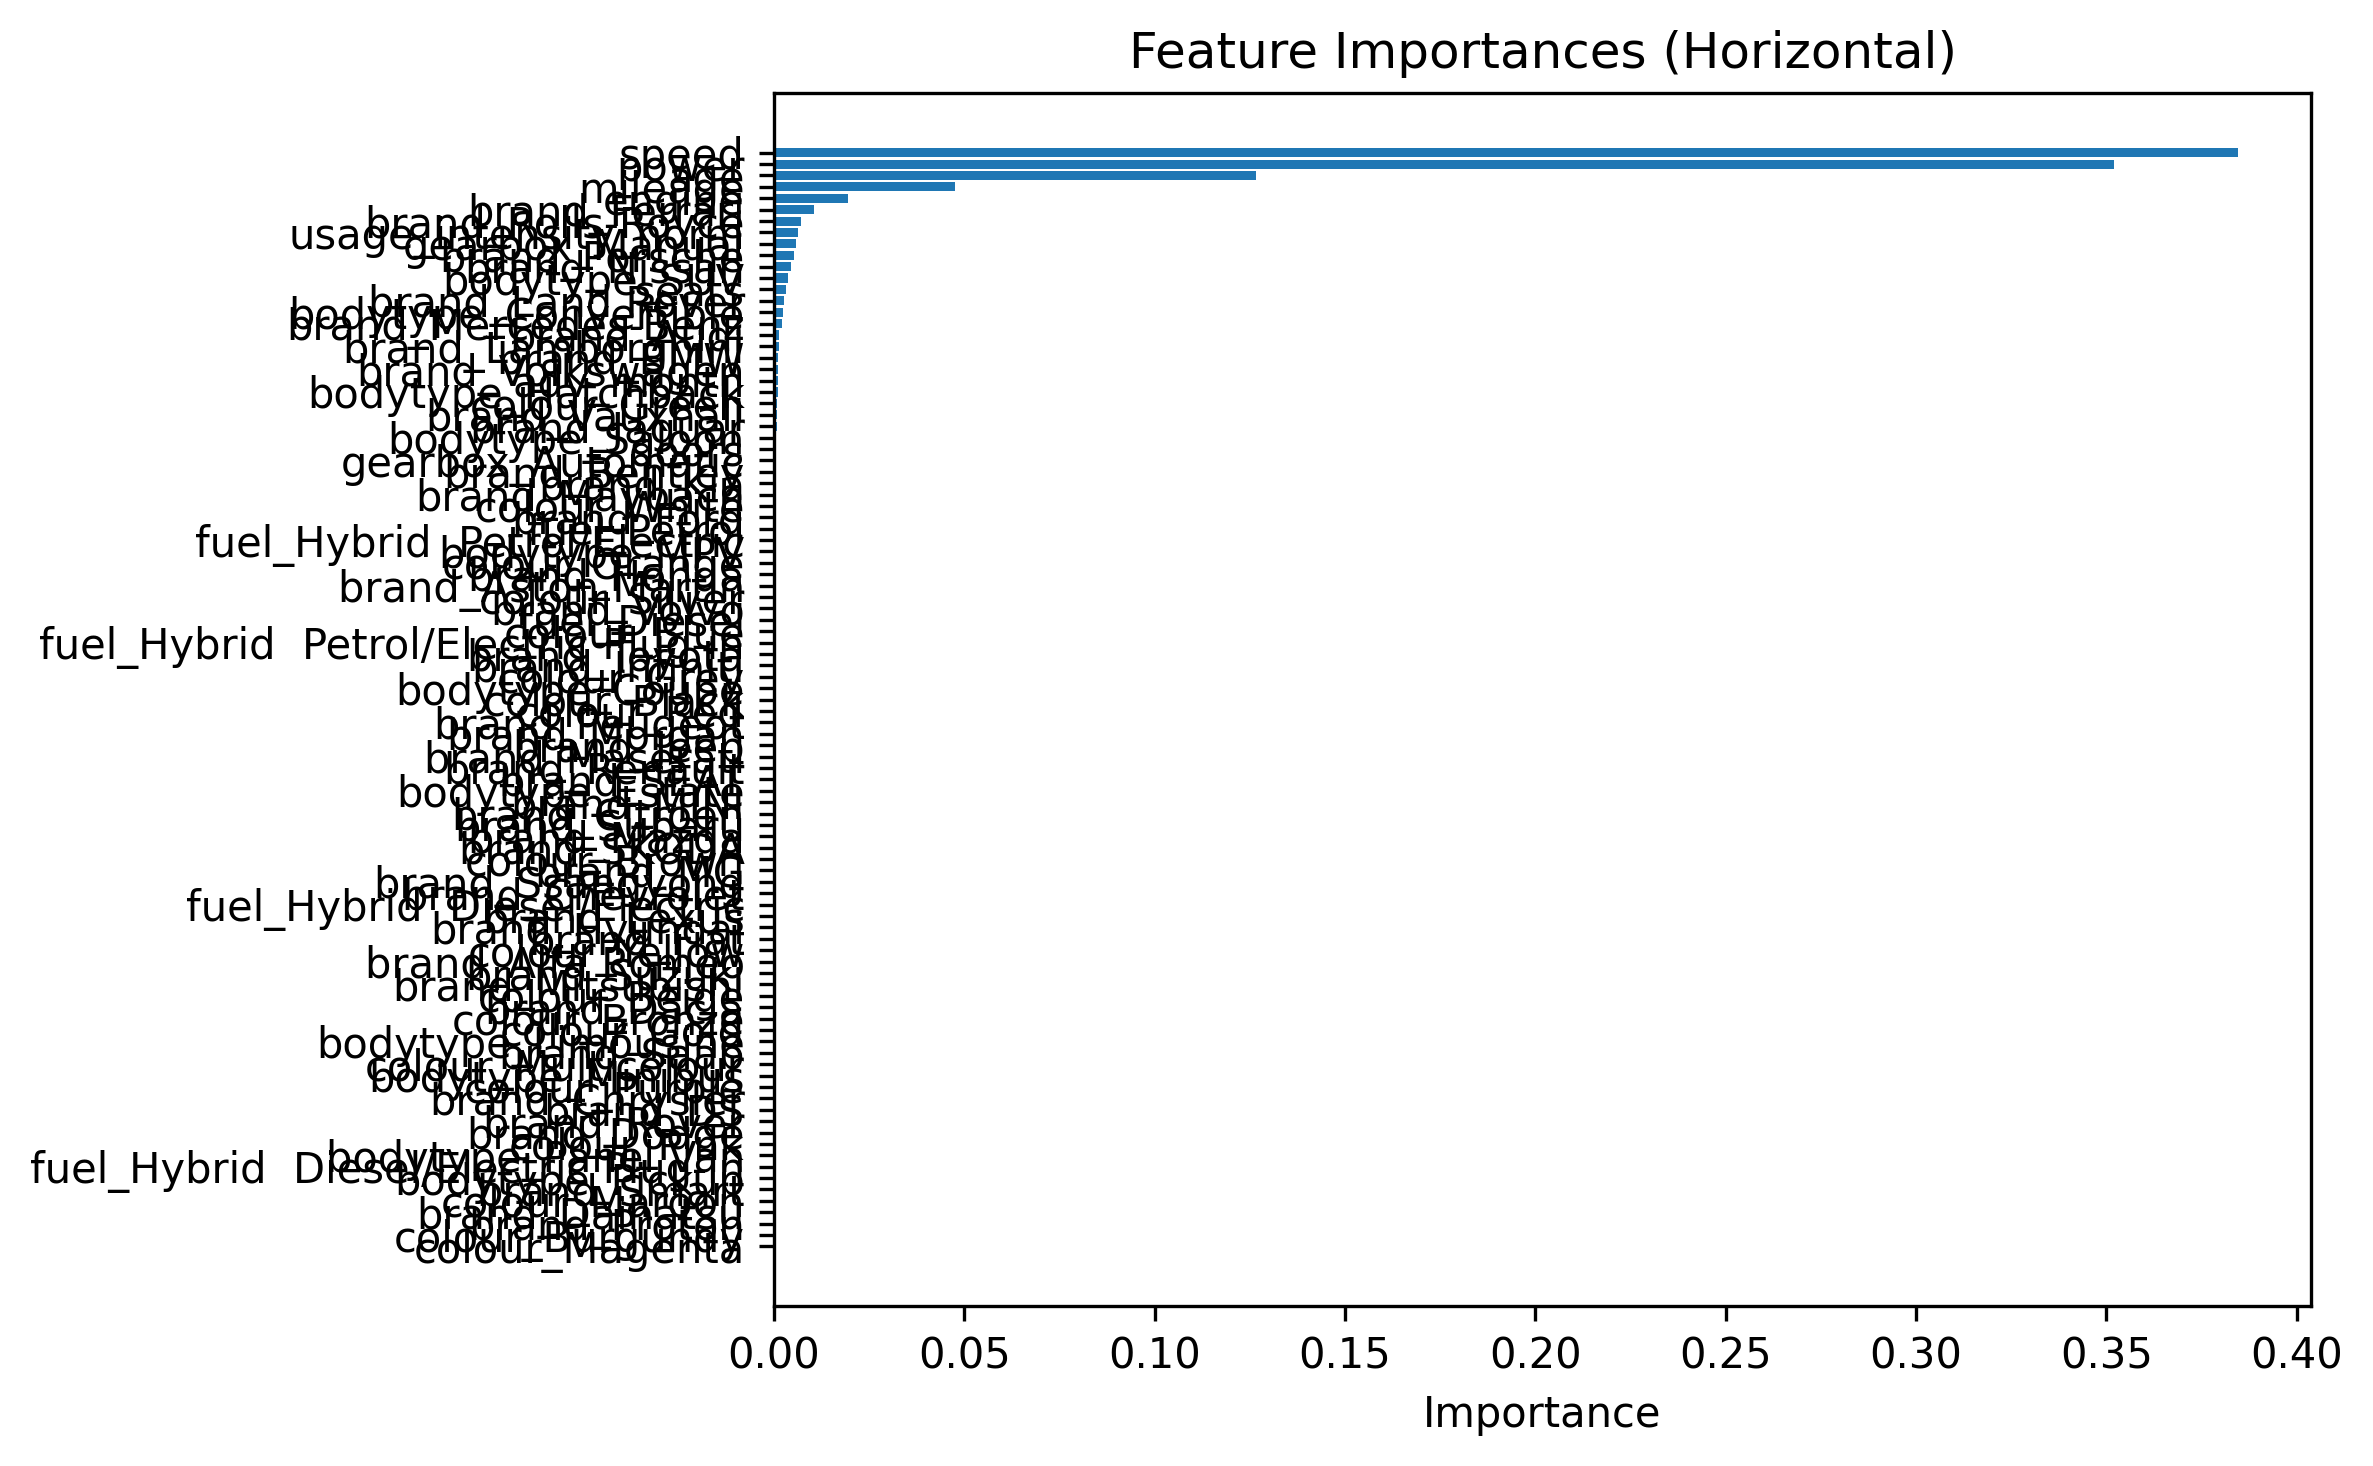
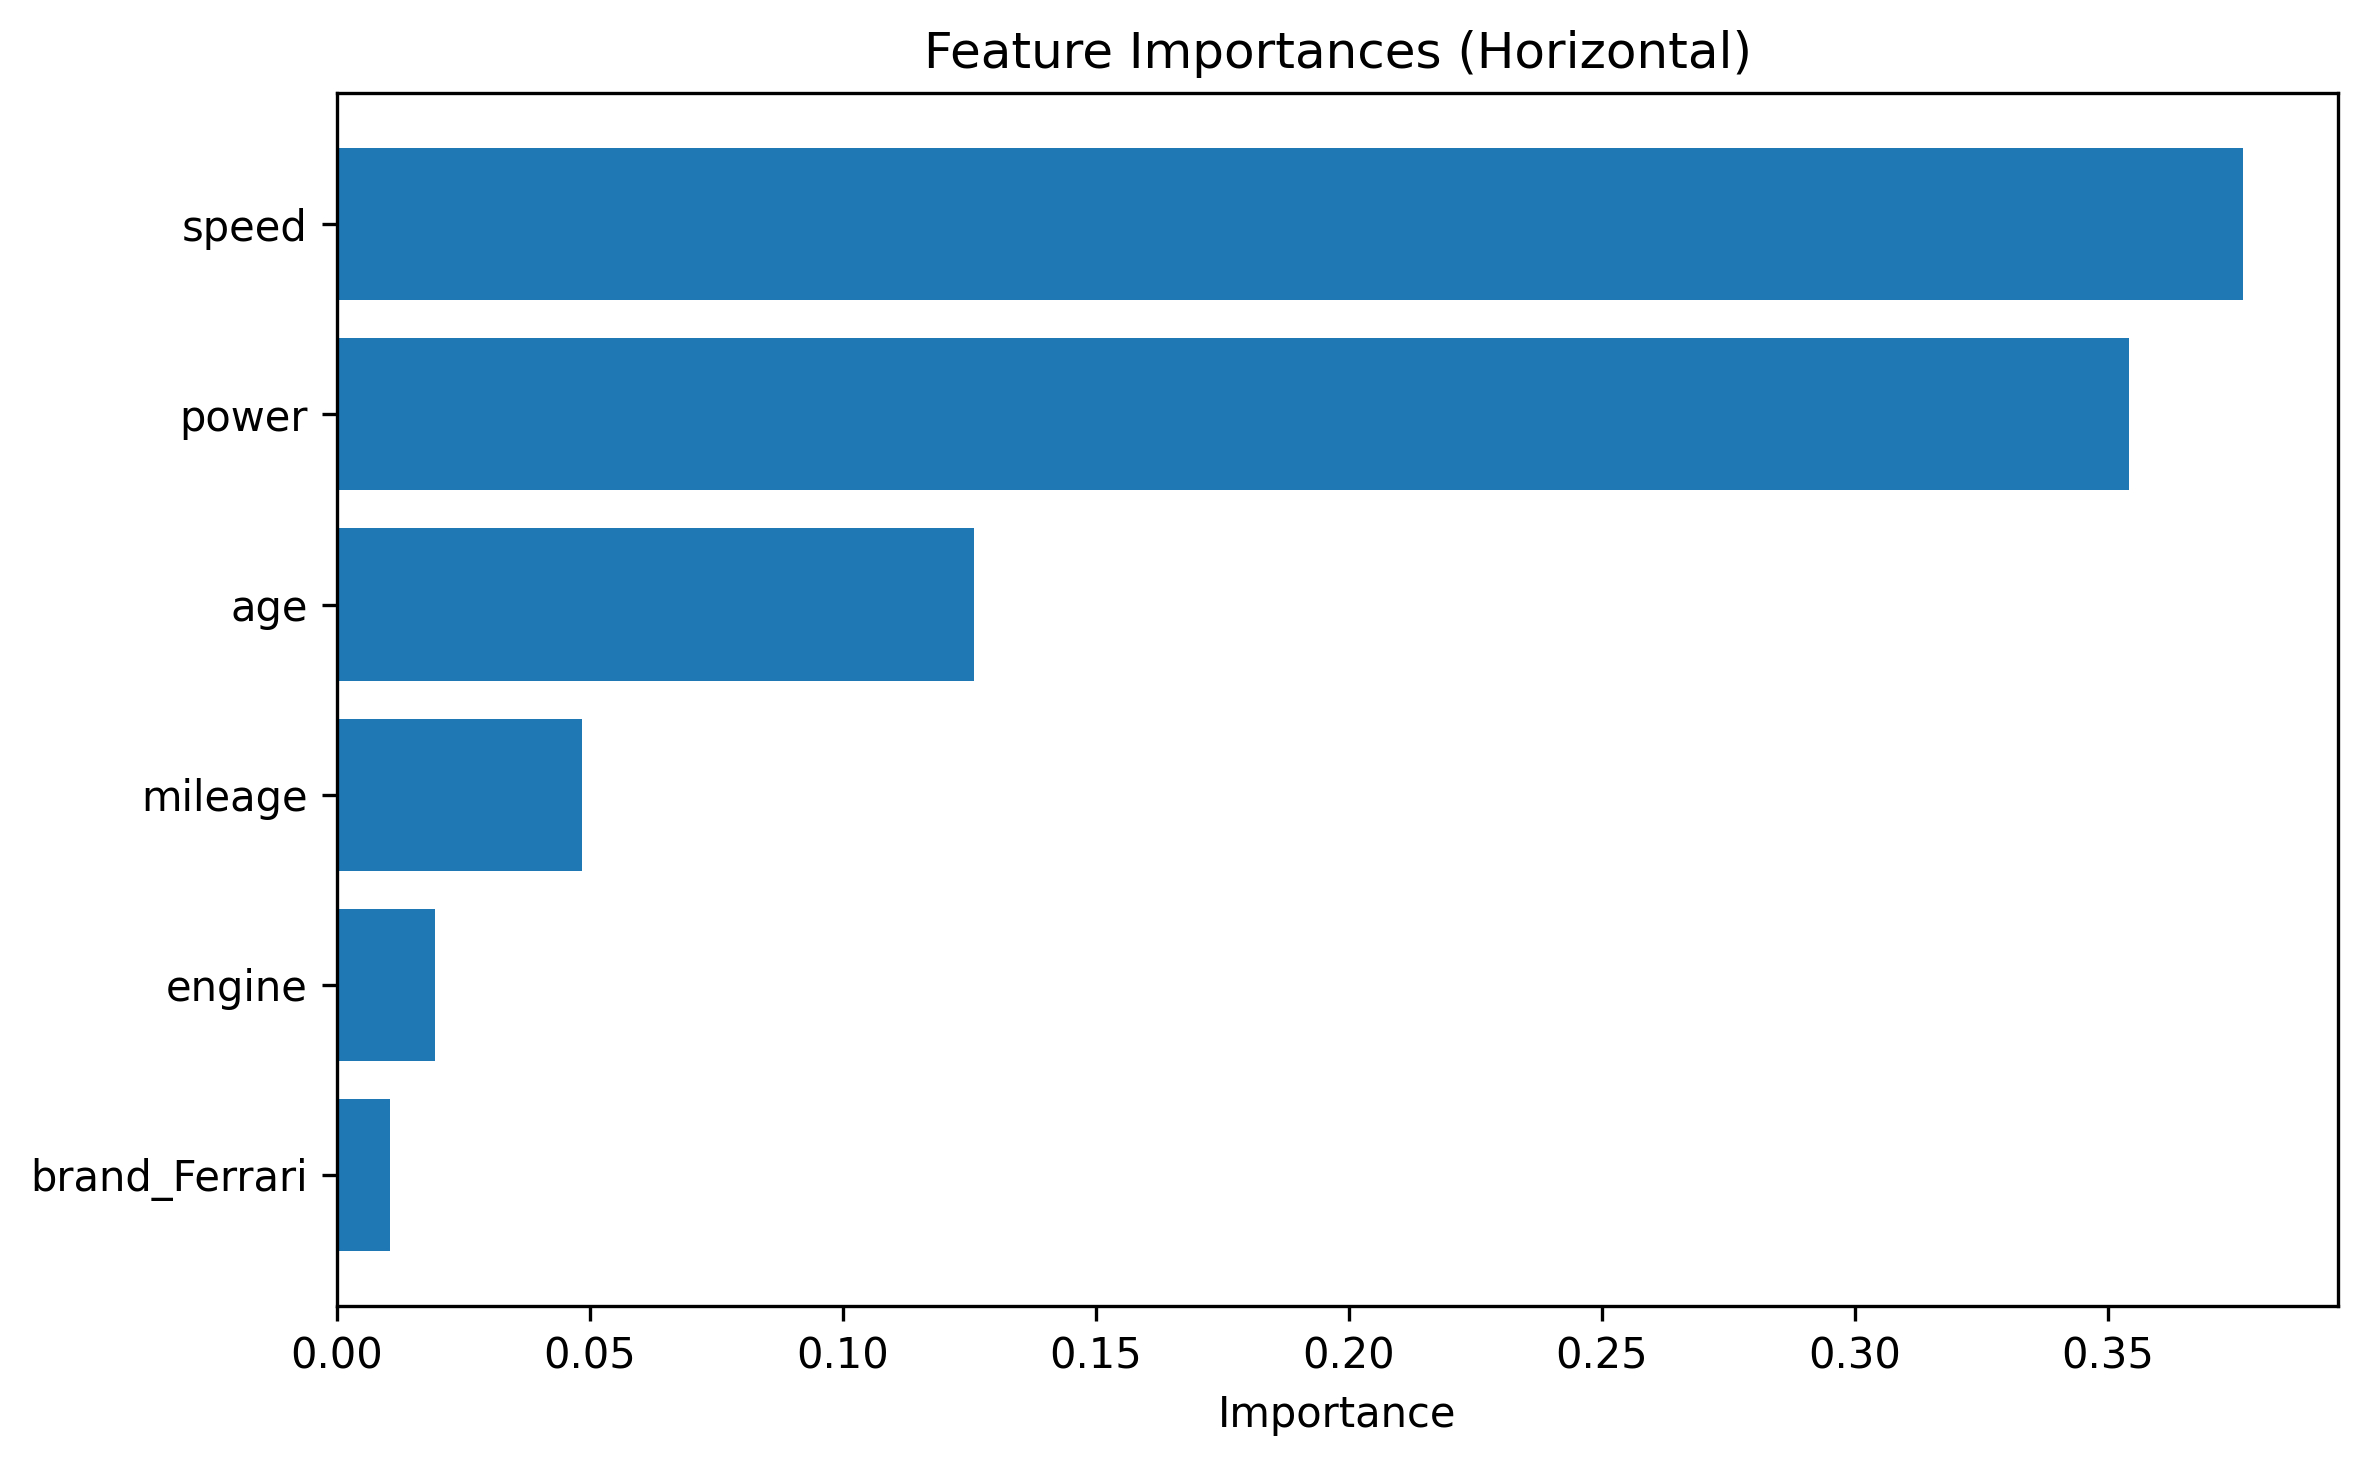
feat: modularise box-plot code and add functionality to choose training model
Add:
- plot_price_box_plots() function to show price distribution
- match structure in run_pipeline to select different models based on the parameter entered
- adjustments to decision tree and feature importance plots

diff --git a/src/analysis_ad_decision_tree_regressor.py b/src/analysis_ad_decision_tree_regressor.py
@@ -5,12 +5,12 @@ import matplotlib.pyplot as plt
 import seaborn as sns
 
 from sklearn.model_selection import train_test_split, KFold, cross_val_score, GridSearchCV
-from sklearn.tree import DecisionTreeClassifier, plot_tree, DecisionTreeRegressor
+from sklearn.tree import plot_tree, DecisionTreeRegressor
 from sklearn.metrics import mean_absolute_error, mean_squared_error, r2_score
 from sklearn.preprocessing import OneHotEncoder
 from sklearn.compose import ColumnTransformer
 from sklearn.pipeline import Pipeline
-
+from sklearn.ensemble import RandomForestRegressor, GradientBoostingRegressor
 
 def get_safe_data():
     # Access processed data that has not been flagged and is within the specified price
@@ -64,20 +64,34 @@ def show_feature_names(preprocess: ColumnTransformer, cat_features:list, num_fea
     
     return all_features
 
-def run_pipeline(preprocess: ColumnTransformer, X_train, y_train):
+def run_pipeline(preprocess: ColumnTransformer, X_train, y_train, model_name:str):
     # Full pipeline - preprocessing + model
-    model = Pipeline(steps=[
-        ('preprocess', preprocess),
-        #('rf', RandomForestRegressor( n_estimators=10, random_state=0, max_depth=None ))
-        ('tree', DecisionTreeRegressor(
-            max_depth=20, 
-            max_features=None, 
-            min_samples_leaf=1, 
-            min_samples_split=10, 
-            random_state=10
-            )
-        )
-    ])
+
+    match model_name:
+        case "tree":
+            model = Pipeline(steps=[
+                ('preprocess', preprocess),
+                ('tree', DecisionTreeRegressor(
+                    # max_depth=20, 
+                    # max_features=None, 
+                    # min_samples_leaf=1, 
+                    # min_samples_split=10, 
+                    random_state=10
+                    )
+                )
+            ])
+        case "rf":
+            model = Pipeline(steps=[
+                ('preprocess', preprocess),
+                ('rf', RandomForestRegressor(random_state=10))
+            ])
+
+        case "gb":
+            model = Pipeline(steps=[
+                ('preprocess', preprocess),
+                ('gb', GradientBoostingRegressor(random_state=10))
+            ])
+
 
     model.fit(X_train, y_train)
 
@@ -101,13 +115,14 @@ def plot_decision_tree(model, all_features):
     tree_model = model.named_steps['tree']
 
     # Format and plot tree
-    plt.figure(figsize=(10,5), dpi=600)
+    plt.figure(figsize=(15,5), dpi=600)
     plot_tree(
         tree_model, 
         feature_names = all_features,
         filled=True,
-        max_depth = 3)
-
+        max_depth = 3,
+        fontsize=6)
+    
     plt.savefig("figures/decision_tree_regressor.png", dpi=600, bbox_inches='tight')
     #plt.show()
 
@@ -145,7 +160,7 @@ def plot_feature_importance(all_features:list, model):
     print(feat_imp)
 
     # Show feature importance graphically
-    feat_imp_nonzero = feat_imp[feat_imp["Importance"] > 0] # only include features that have some importance
+    feat_imp_nonzero = feat_imp[feat_imp["Importance"] > 0.01] # only include features that have some importance
     plt.figure(figsize=(8,5))
     plt.barh(feat_imp_nonzero["Feature"], feat_imp_nonzero["Importance"])
 
@@ -179,7 +194,7 @@ def plot_error_graphs(errors, relative_error):
     plt.savefig("figures/relative_error.png", dpi=300, bbox_inches='tight')
     #plt.show()
 
-def plot_model_analysis(y_test, errors, relative_error):
+def plot_model_analysis(X_test, y_test, preds, errors, relative_error):
     
     # Check if model performs worse on high or low priced cars
     bins = [0, 5000, 10000, 20000, 40000, 60000, 70000, 80000, 90000, 100000, 200000, 300000, 400000, 500000, 600000, 700000, 800000, 900000, 1000000, 2000000]
@@ -239,8 +254,29 @@ def plot_model_analysis(y_test, errors, relative_error):
     plt.savefig("figures/brand_level_prediction_bias.png", dpi=300, bbox_inches='tight')
     #plt.show()
 
+def plot_price_box_plots(df:pd.DataFrame):
 
-def tune_hyperparams(model, model_type:str):
+    print(df['price'].describe(percentiles=[0.5, 0.9, 0.95, 0.99, 0.999]))
+
+    sns.boxplot(x=df['price'])
+    plt.title("Boxplot of Car Prices") 
+    plt.xlabel("Price (£)") 
+    plt.show()
+
+    fig, axes = plt.subplots(1, 3, figsize=(14, 4))
+
+    sns.boxplot(x=df['price'], ax=axes[0])
+    axes[0].set_title("Full Price Range")
+
+    sns.boxplot(x=df[df['price'] < 100000]['price'], ax=axes[1])
+    axes[1].set_title("Zoomed (< £100k)")
+
+    axes[2].set_title("Zoomed (< 40k)")
+    sns.boxplot(x=df[df['price'] < 40000]['price'], ax=axes[2])
+
+    plt.show()
+
+def tune_hyperparams(model, model_type:str, X_train, y_train, X_test, y_test):
     # Hyper parameter tuning based on model
     
     match(model_type):
@@ -285,29 +321,6 @@ def tune_hyperparams(model, model_type:str):
 if __name__ == "__main__":
 
     df = get_safe_data()
-    #print(df['price'].describe(percentiles=[0.5, 0.9, 0.95, 0.99, 0.999]))
-
-    # sns.boxplot(x=df['price'])
-    # plt.title("Boxplot of Car Prices") 
-    # plt.xlabel("Price (£)") 
-    # plt.show()
-
-    # fig, axes = plt.subplots(1, 3, figsize=(14, 4))
-
-    # sns.boxplot(x=df['price'], ax=axes[0])
-    # axes[0].set_title("Full Price Range")
-
-    # sns.boxplot(x=df[df['price'] < 100000]['price'], ax=axes[1])
-    # axes[1].set_title("Zoomed (< £100k)")
-
-    # axes[2].set_title("Zoomed (< 40k)")
-    # sns.boxplot(x=df[df['price'] < 40000]['price'], ax=axes[2])
-
-    # plt.show()
-
-    # df = df[df['price'] < df['price'].quantile(0.99)]
-    # df['price'].describe(percentiles=[0.5, 0.9, 0.95, 0.99, 0.999])
-    # sns.boxplot(x=df['price'])
 
     # List all categorical and numeric features
     categorical_features= [
@@ -317,7 +330,7 @@ if __name__ == "__main__":
     numeric_features = [
         'adv_year', 'adv_month', 'reg_year', 'mileage', 
         'engine', 'price', 'power', 'tax', 
-        'wheelbase', 'height', 'width', 'length'
+        'wheelbase', 'height', 'width', 'length',
         'mpg', 'speed', 'seats', 'doors',
         'age', 'usage_intensity_norm'
     ]
@@ -339,32 +352,34 @@ if __name__ == "__main__":
 
     preprocess, X_train, X_test, y_train, y_test = split_and_encode(X, y, categorical_features_to_train, numeric_features_to_train)
     all_features = show_feature_names(preprocess, categorical_features_to_train, numeric_features_to_train, X_train) # Get feature names
+    print (all_features)
+    print (len(all_features))
     
     # Train model
-    model = run_pipeline(preprocess, X_train, y_train)
+    # model = run_pipeline(preprocess, X_train, y_train, "tree")
 
     # Test model for baseline
-    preds, mae, rmse, r2 = test_model(model, X_test, y_test)
-    print("Mean Absolute Error:", mae)
-    print("Root Mean Squared Error:", rmse)
-    print("R²:", r2)
+    # preds, mae, rmse, r2 = test_model(model, X_test, y_test)
+    # print("Mean Absolute Error:", mae)
+    # print("Root Mean Squared Error:", rmse)
+    # print("R²:", r2)
 
     # Plot feature importance
-    #plot_feature_importance(all_features, model)
+    # plot_feature_importance(all_features, model)
 
     # Plot tree
-    plot_decision_tree(model, all_features)
+    # plot_decision_tree(model, all_features)
 
     # Cross validate
     #cross_validate(model, 'tree', X, y)
 
+    # Tune hyper parameters
+    #tune_hyperparams(model, 'tree', X_train, y_train, X_test, y_test)
+
     # -- Analyse Errors -- #
-    errors = np.abs(y_test - preds)
-    relative_error = errors / y_test
+    # errors = np.abs(y_test - preds)
+    # relative_error = errors / y_test
 
     # Plot error graphs
     #plot_error_graphs(errors, relative_error)
-    #plot_model_analysis(y_test, errors, relative_error)
-
-    # Tune hyper parameters
-    #tune_hyperparams(model, 'tree')
+    #plot_model_analysis(X_test, y_test, preds, errors, relative_error)
